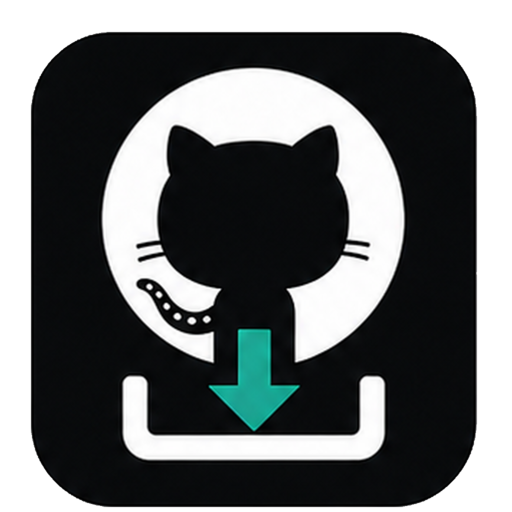
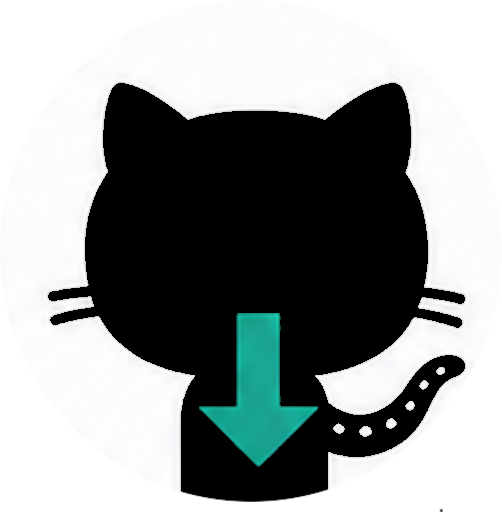
[ISSUE-5] 优化顶部项目入口和站点图标

diff --git a/internal/httpapi/static/index.html b/internal/httpapi/static/index.html
@@ -12,6 +12,12 @@
     <button class="logo logo-button" onclick="showList()" title="返回首页"><img class="brand-icon" src="/assets/icon.png?v=issue-1-repo-url-routing" alt=""><span>Github Downloader</span></button>
     <span class="spacer"></span>
     <input class="search" id="searchBox" placeholder="搜索已收录工具…" oninput="renderRepoList()">
+    <a class="btn btn-sm project-link" href="https://github.com/1996fanrui/gh-downloader" target="_blank" rel="noopener noreferrer">
+      <svg class="project-link-icon" viewBox="0 0 24 24" aria-hidden="true">
+        <path d="M12 .297c-6.63 0-12 5.373-12 12 0 5.303 3.438 9.8 8.205 11.385.6.113.82-.258.82-.577 0-.285-.01-1.04-.015-2.04-3.338.724-4.042-1.61-4.042-1.61C4.422 18.07 3.633 17.7 3.633 17.7c-1.087-.744.084-.729.084-.729 1.205.084 1.838 1.236 1.838 1.236 1.07 1.835 2.809 1.305 3.495.998.108-.776.417-1.305.76-1.605-2.665-.3-5.466-1.332-5.466-5.93 0-1.31.465-2.38 1.235-3.22-.135-.303-.54-1.523.105-3.176 0 0 1.005-.322 3.3 1.23.96-.267 1.98-.399 3-.405 1.02.006 2.04.138 3 .405 2.28-1.552 3.285-1.23 3.285-1.23.645 1.653.24 2.873.12 3.176.765.84 1.23 1.91 1.23 3.22 0 4.61-2.805 5.625-5.475 5.92.42.36.81 1.096.81 2.22 0 1.606-.015 2.896-.015 3.286 0 .315.21.69.825.57C20.565 22.092 24 17.592 24 12.297c0-6.627-5.373-12-12-12"></path>
+      </svg>
+      <span>项目 GitHub</span>
+    </a>
     <button class="btn btn-sm" onclick="openAdd()">添加仓库</button>
   </div>
 </header>

diff --git a/internal/httpapi/static/assets/style.css b/internal/httpapi/static/assets/style.css
@@ -157,10 +157,16 @@ header.site .inner .btn:hover {
   cursor: pointer;
 }
 .brand-icon {
-  width: 28px;
-  height: 28px;
-  border-radius: 9px;
-  box-shadow: 0 4px 12px var(--brand-ring);
+  width: 44px;
+  height: 44px;
+  border-radius: 13px;
+  box-shadow: 0 6px 16px var(--brand-ring);
+}
+.project-link-icon {
+  width: 14px;
+  height: 14px;
+  fill: currentColor;
+  flex: 0 0 auto;
 }
 .mark {
   display: inline-flex;

diff --git a/internal/httpapi/static_assets_test.go b/internal/httpapi/static_assets_test.go
@@ -25,8 +25,13 @@ func TestStaticUIContainsGuidedDownloadAndIconAssets(t *testing.T) {
 		`rel="icon" type="image/png" href="/assets/icon.png?v=issue-1-repo-url-routing"`,
 		`class="brand-icon" src="/assets/icon.png?v=issue-1-repo-url-routing"`,
 		`src="/assets/state.js?v=issue-1-repo-url-routing"`,
+		`href="https://github.com/1996fanrui/gh-downloader"`,
+		`class="btn btn-sm project-link"`,
+		`class="project-link-icon"`,
+		"\u9879\u76ee GitHub</span>",
 		`id="tabB" onclick="switchTab('B')">` + "\u4e00\u952e\u4e0b\u8f7d",
 		`.brand-icon`,
+		`.project-link-icon`,
 		`logo-button" onclick="showList()"`,
 		"\u641c\u7d22\u5df2\u6536\u5f55\u5de5\u5177\u2026",
 		">\u5173\u95ed</button>",
@@ -51,6 +56,8 @@ func TestStaticUIContainsInstallScripts(t *testing.T) {
 		`id="platformSelect"`,
 		`id="installChoices"`,
 		`id="assetDownloadPanel"`,
+		`id="dRepoLink" target="_blank" rel="noopener noreferrer"`,
+		`document.getElementById('dRepoLink').href = repo.htmlURL`,
 		`officialInstallSteps(method, platform)`,
 		`<pre><code id="`,
 		`top: 8px;`,
